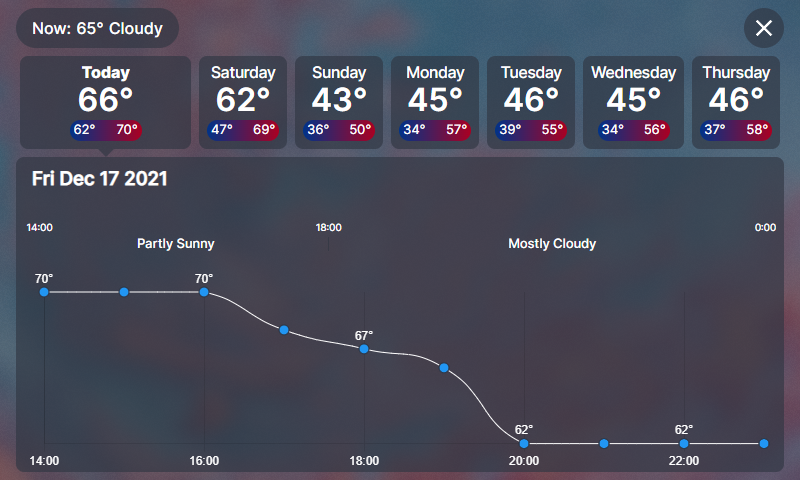
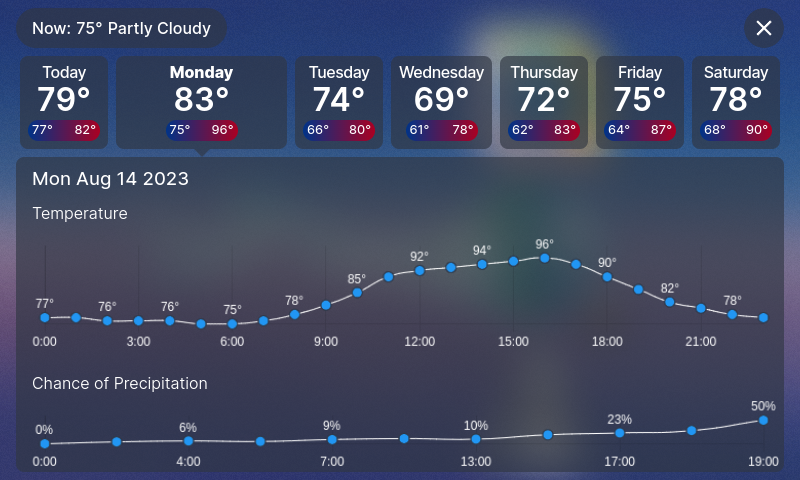
update readme

diff --git a/readme.md b/readme.md
@@ -1,9 +1,9 @@
 # dashboard
 
-A little webpage that my raspberry pi home server displays. It shows weather and a QR code that you can use to sign into the WiFi.
+A little webpage that my raspberry pi home server displays. 
 
-![pi in the wild](https://raw.githubusercontent.com/skgough/dashboard/main/assets/readme/env.webp)
+![pi in the wild](https://raw.githubusercontent.com/skgough/dashboard/main/assets/readme/shot.png)
 
-This project pulls weather data from the [NOAA REST API](https://weather-gov.github.io/api/general-faqs). I'm using it to practice navigating complicated API schemas. It also has a pretty forecast view using `chart.js` for temperature graphs. 
+This project pulls weather data from the [NOAA REST API](https://weather-gov.github.io/api/general-faqs). It also has a pretty forecast view using `chart.js` for temperature + precipitation graphs. 
 
 ![forecast view](https://raw.githubusercontent.com/skgough/dashboard/main/assets/readme/forecast.png)
